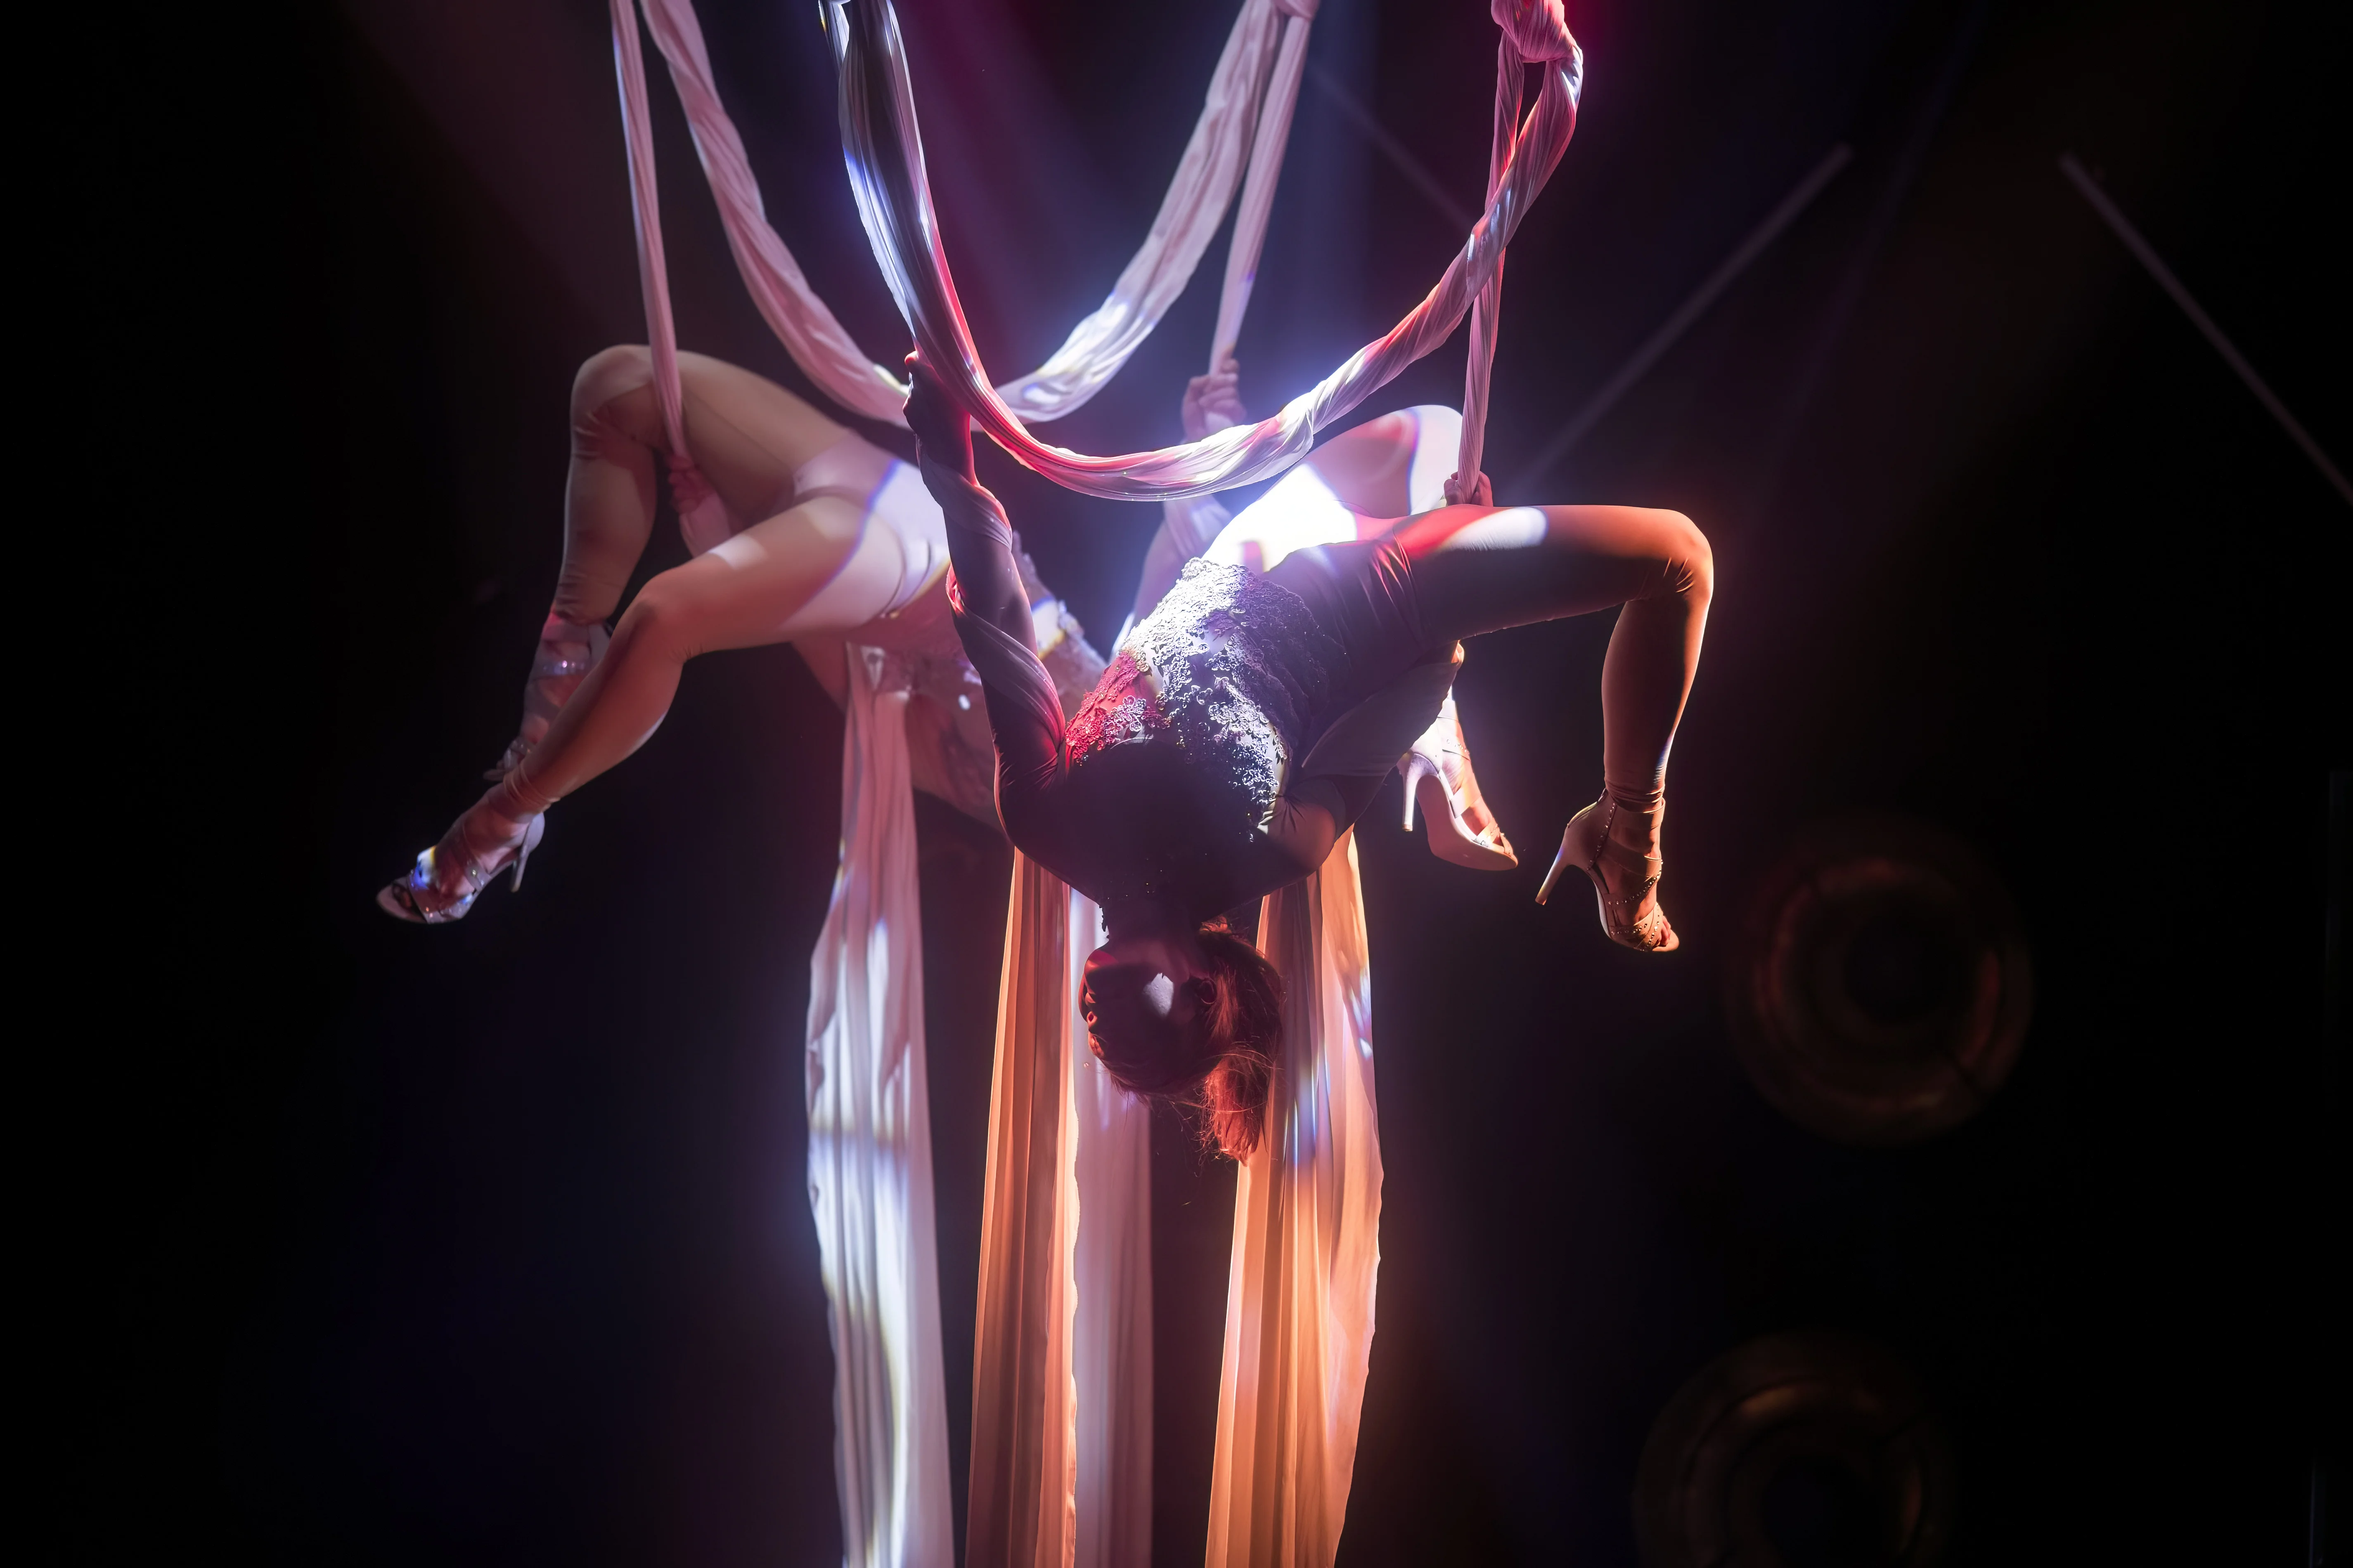
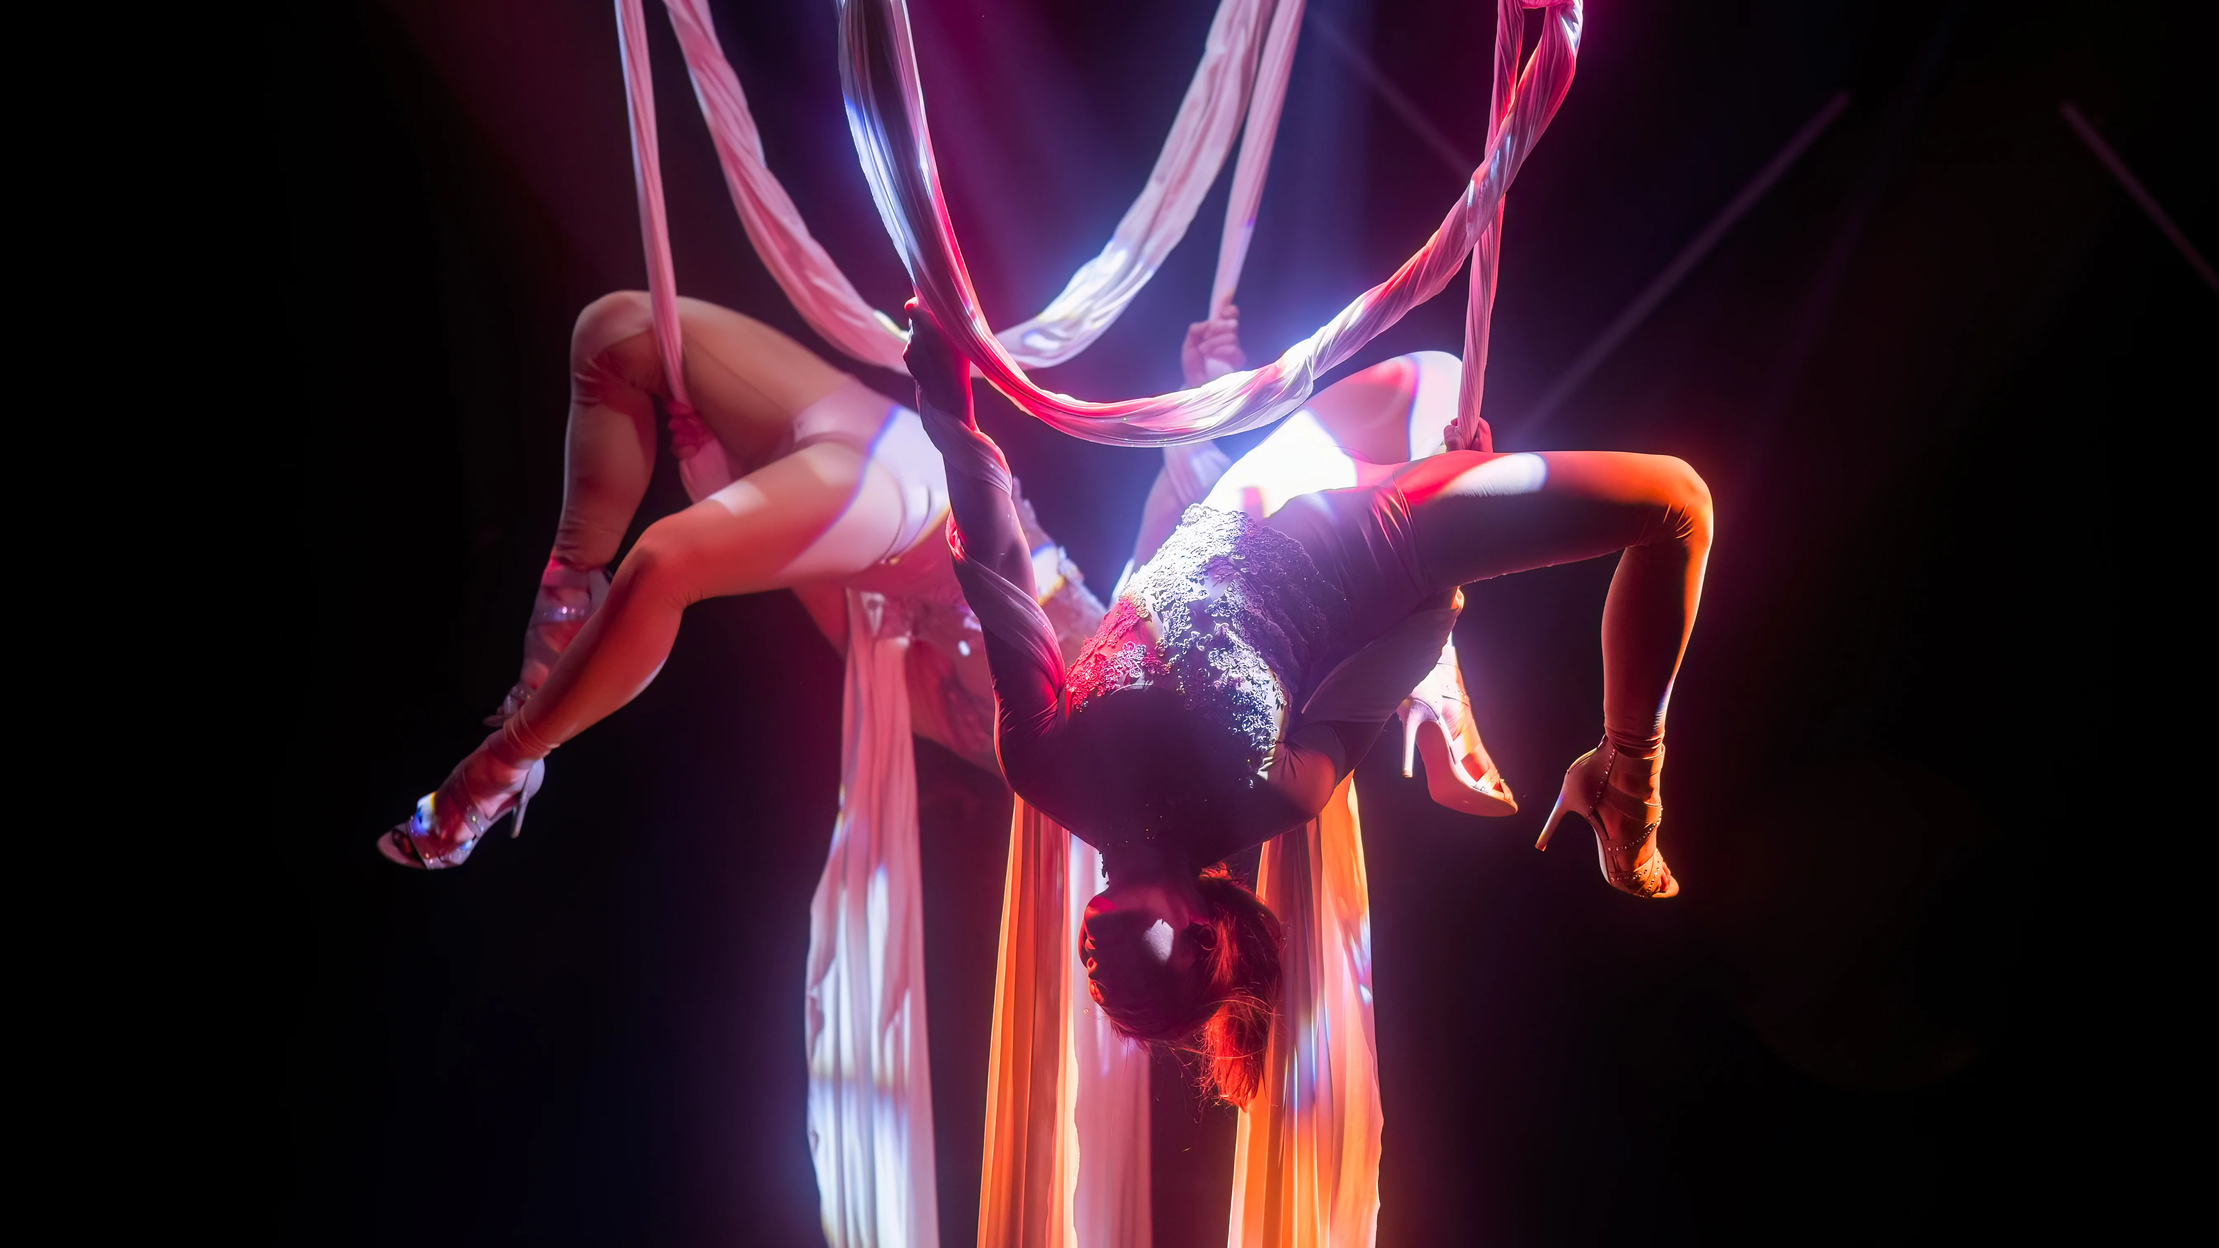
Replace hero images with better-cropped versions
All images converted to WebP (q85) from new hero_ukazky assets.
Updates ProjectsSection, HeroSection, HowItWorksSection, sluzba and o-nas pages.

diff --git a/src/components/sections/ProjectsSection.tsx b/src/components/sections/ProjectsSection.tsx
@@ -13,37 +13,37 @@ const projects = [
   {
     title: "Partnerská akrobacie",
     category: "Artistika",
-    image: "/images/akrobacie/20250226-IMG_7112-2.webp",
+    image: "/images/parovaakrobacie/partnerska-akrobacie1.webp",
     size: "large",
   },
   {
     title: "Fire show",
     category: "Oheň & světlo",
-    image: "/images/fireshow/0IMG0244-1.webp",
+    image: "/images/fireshow/tribal-fireshow1.webp",
     size: "small",
   },
   {
     title: "Geisha",
     category: "Walking act",
-    image: "/images/geisha/Geisha_by matess.webp",
+    image: "/images/geisha/geisha.webp",
     size: "small",
   },
   {
     title: "Light show",
     category: "Oheň & světlo",
-    image: "/images/lightshow/5209_REPORTAZ_2025_10_09_UNIS_COMPUTER_BESEDNI_DUM_BRNO_OSLAVA_VYROCI_30LET_UNIS_COMPUTER_A_AXENTA_SA901928.webp",
+    image: "/images/lightshow/lightshow1.webp",
     size: "large",
   },
   {
     title: "Lollipop show",
     category: "Artistika",
-    image: "/images/lollipop/Foto-03499.webp",
+    image: "/images/lollipop/lollipop.webp",
     size: "small",
   },
   {
     title: "Plesová show",
     category: "Taneční vystoupení",
-    image: "/images/plesovashow/IMG_6317_foto_Jiří_Balát_edit.webp",
+    image: "/images/plesovashow/plesova-show1.webp",
     size: "large",
   },
 ];

diff --git a/src/app/(pages)/sluzba/page.tsx b/src/app/(pages)/sluzba/page.tsx
@@ -13,13 +13,13 @@ const eventTypes = [
     title: "Korporátní akce",
     description:
       "Gala večeře, firemní večírky, team buildingy, produktové launche. Program, který odpovídá firemní kultuře a zanechá dojem.",
-    image: "/images/parovaakrobacie/ALLWYN_by_art4people_101225_2048px_JanHromadko-1119.webp",
+    image: "/images/parovaakrobacie/partnerska-akrobacie1.webp",
   },
   {
     title: "Luxusní soukromé akce",
     description:
       "Svatby, VIP narozeniny, soukromé oslavy. Každý detail choreografován pro ten správný moment.",
-    image: "/images/plesovashow/IMG_6329_foto_Jiří_Balát_edit.webp",
+    image: "/images/plesovashow/plesova-show2.webp",
   },
   {
     title: "Festivaly a kulturní akce",
@@ -59,7 +59,7 @@ export default function SluzbaPage() {
       {/* Hero — foto na pozadí */}
       <section className="relative min-h-[80vh] lg:min-h-[90vh] flex items-end overflow-hidden">
         <Image
-          src="/images/zavesnaakrobacie/salo-kruh16.webp"
+          src="/images/zavesnaakrobacie/salo-kruh1.webp"
           alt="Vzdušná akrobacie na firemní akci — Showdesigners"
           fill
           className="object-cover object-center"

diff --git a/src/components/sections/HowItWorksSection.tsx b/src/components/sections/HowItWorksSection.tsx
@@ -35,7 +35,7 @@ export default function HowItWorksSection() {
       {/* Full-bleed background photo */}
       <div className="absolute inset-0">
         <Image
-          src="/images/parovaakrobacie/67FC50CA-DBE7-4CF0-A0AB-5989867906E7.webp"
+          src="/images/parovaakrobacie/partnerska-akrobacie2.webp"
           alt="Partnerská akrobacie na firemním večírku — show designer Showdesigners na místě"
           fill
           className="object-cover object-center"

diff --git a/src/app/(pages)/o-nas/page.tsx b/src/app/(pages)/o-nas/page.tsx
@@ -33,7 +33,7 @@ export default function ONasPage() {
       {/* Hero — foto na pozadí */}
       <section className="relative min-h-[80vh] lg:min-h-[90vh] flex items-end overflow-hidden">
         <Image
-          src="/images/plesovashow/IMG_6317_foto_Jiří_Balát_edit.webp"
+          src="/images/plesovashow/plesova-show1.webp"
           alt="Plesová show — tým Showdesigners na místě akce"
           fill
           className="object-cover object-center"

diff --git a/src/components/sections/HeroSection.tsx b/src/components/sections/HeroSection.tsx
@@ -177,7 +177,7 @@ export default function HeroSection() {
         transition={{ duration: 1 }}
       >
         <Image
-          src="/images/fireshow/0IMG0280-Enhanced-NR.webp"
+          src="/images/fireshow/tribal-fireshow2.webp"
           alt=""
           fill
           className="object-cover"
